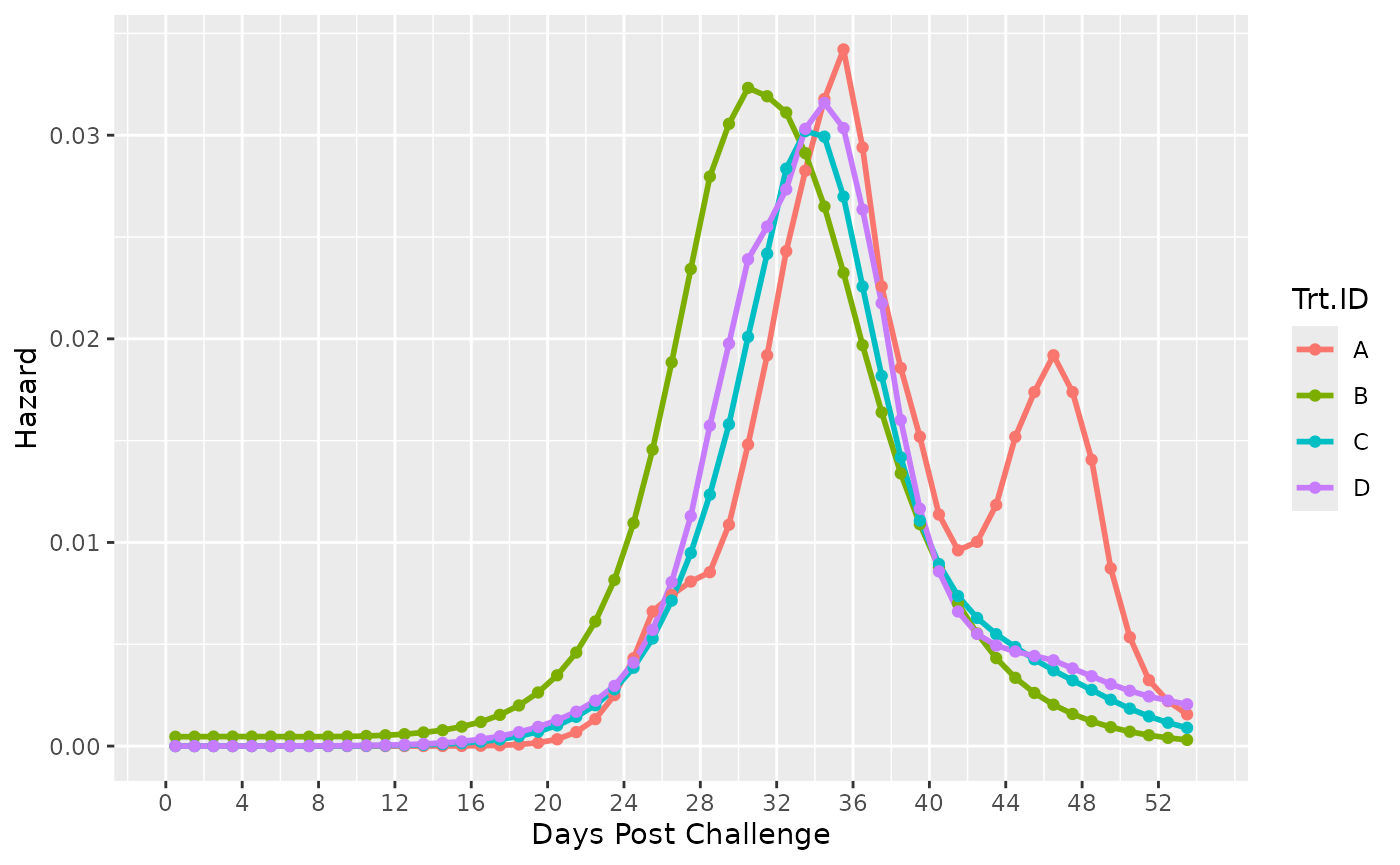
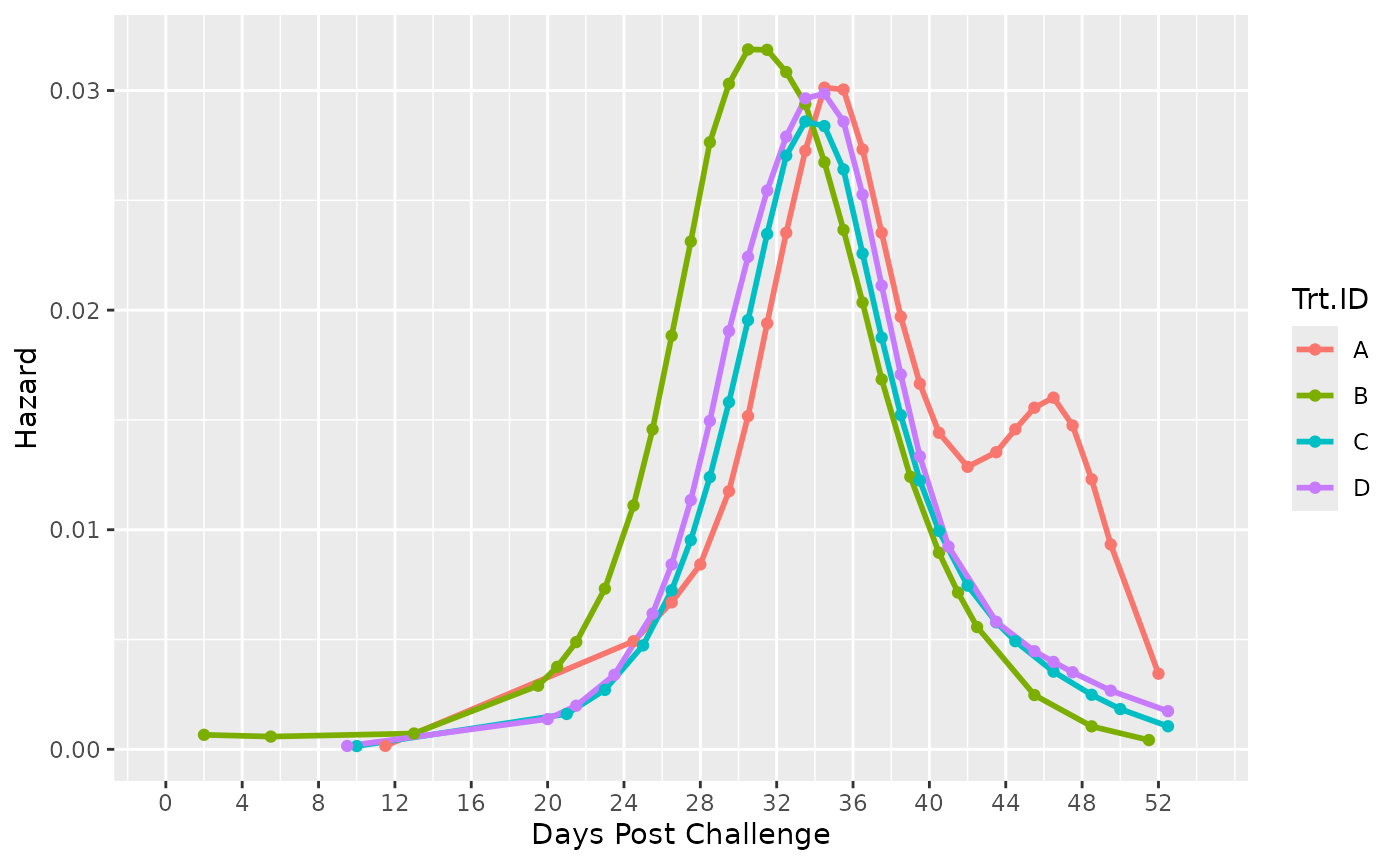
Deploying to gh-pages from @ sean4andrew/safuncs@1ee3a430c023b0c9169bf4d5928f361d21096d57 🚀

diff --git a/articles/safuncs.html b/articles/safuncs.html
@@ -148,7 +148,8 @@ easily generated using <code><a href="../reference/Surv_Plots.html">Surv_Plots()
 <div class="sourceCode" id="cb7"><pre class="downlit sourceCode r">
 <code class="sourceCode R"><span><span class="fu"><a href="https://rdrr.io/r/utils/data.html" class="external-link">data</a></span><span class="op">(</span><span class="va">surv_db_ex</span><span class="op">)</span> <span class="co"># load example complete survival data</span></span>
 <span></span>
-<span><span class="fu"><a href="../reference/Surv_Plots.html">Surv_Plots</a></span><span class="op">(</span><span class="va">surv_db_ex</span><span class="op">)</span> <span class="co"># plot the survival curve and hazard curve</span></span>
+<span><span class="fu"><a href="../reference/Surv_Plots.html">Surv_Plots</a></span><span class="op">(</span><span class="va">surv_db_ex</span>, <span class="co"># plot the survival curve and hazard curve</span></span>
+<span>           dailybin <span class="op">=</span> <span class="cn">FALSE</span><span class="op">)</span> <span class="co"># recommended argument for good (large) sample size datasets</span></span>
 <span><span class="co">#&gt; NOTE: entry.status has been set to 0 for all.</span></span>
 <span><span class="co">#&gt; NOTE: entry.status has been set to 0 for all.</span></span>
 <span><span class="co">#&gt; NOTE: Dropping  1  rows with duration of follow up &lt; tol</span></span>
